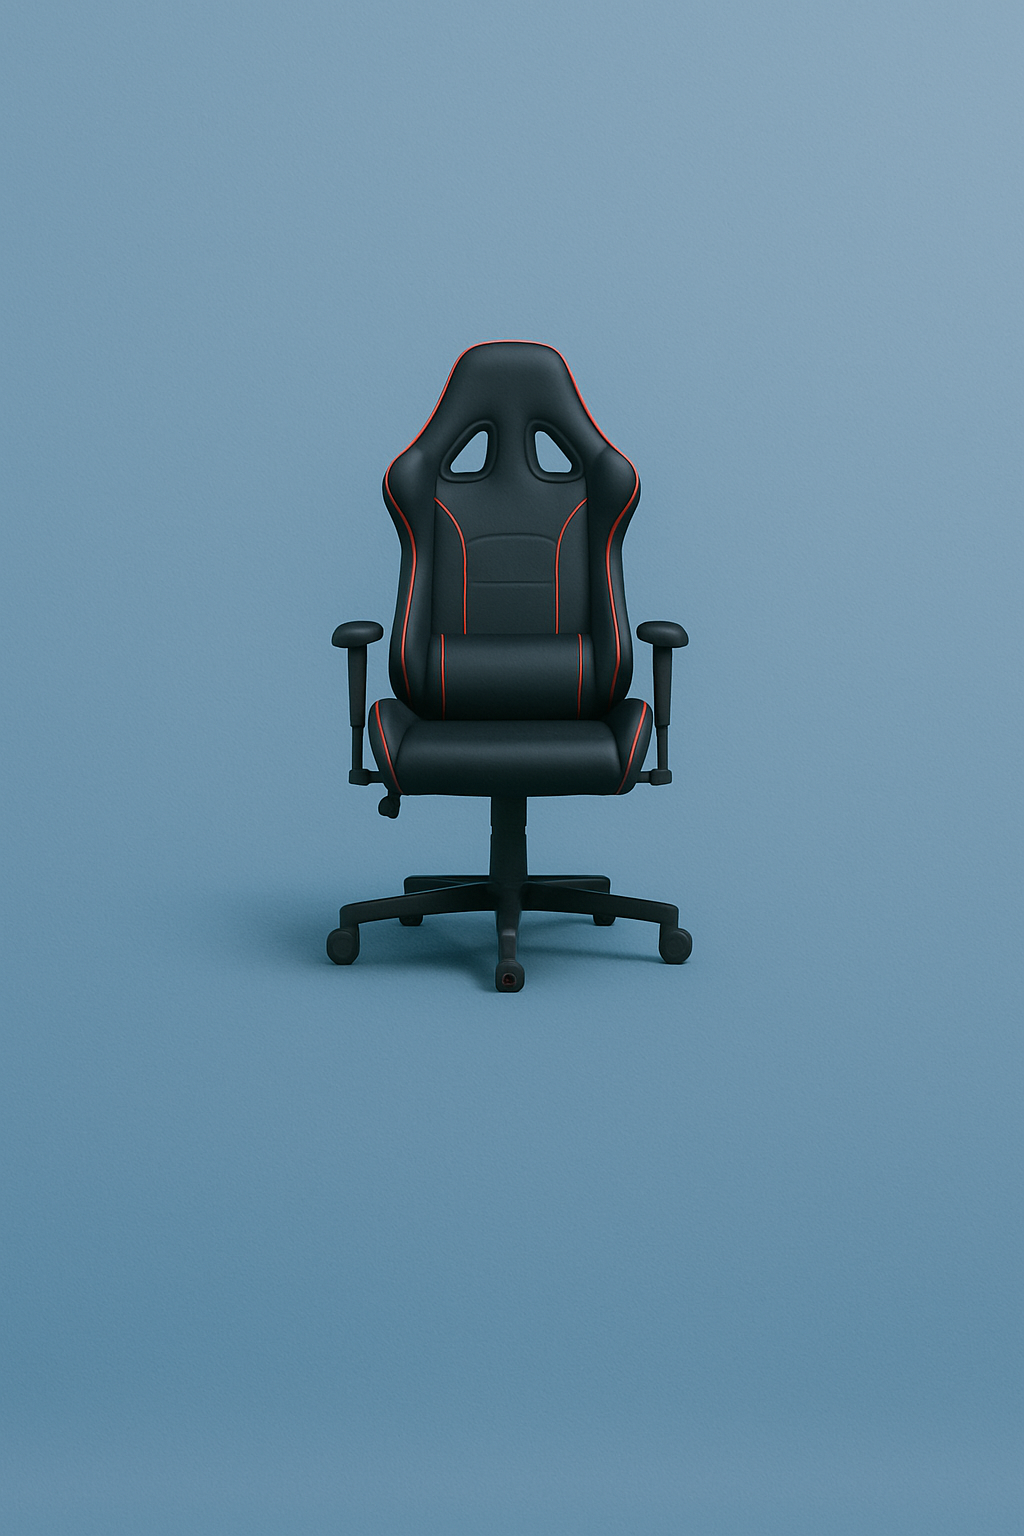
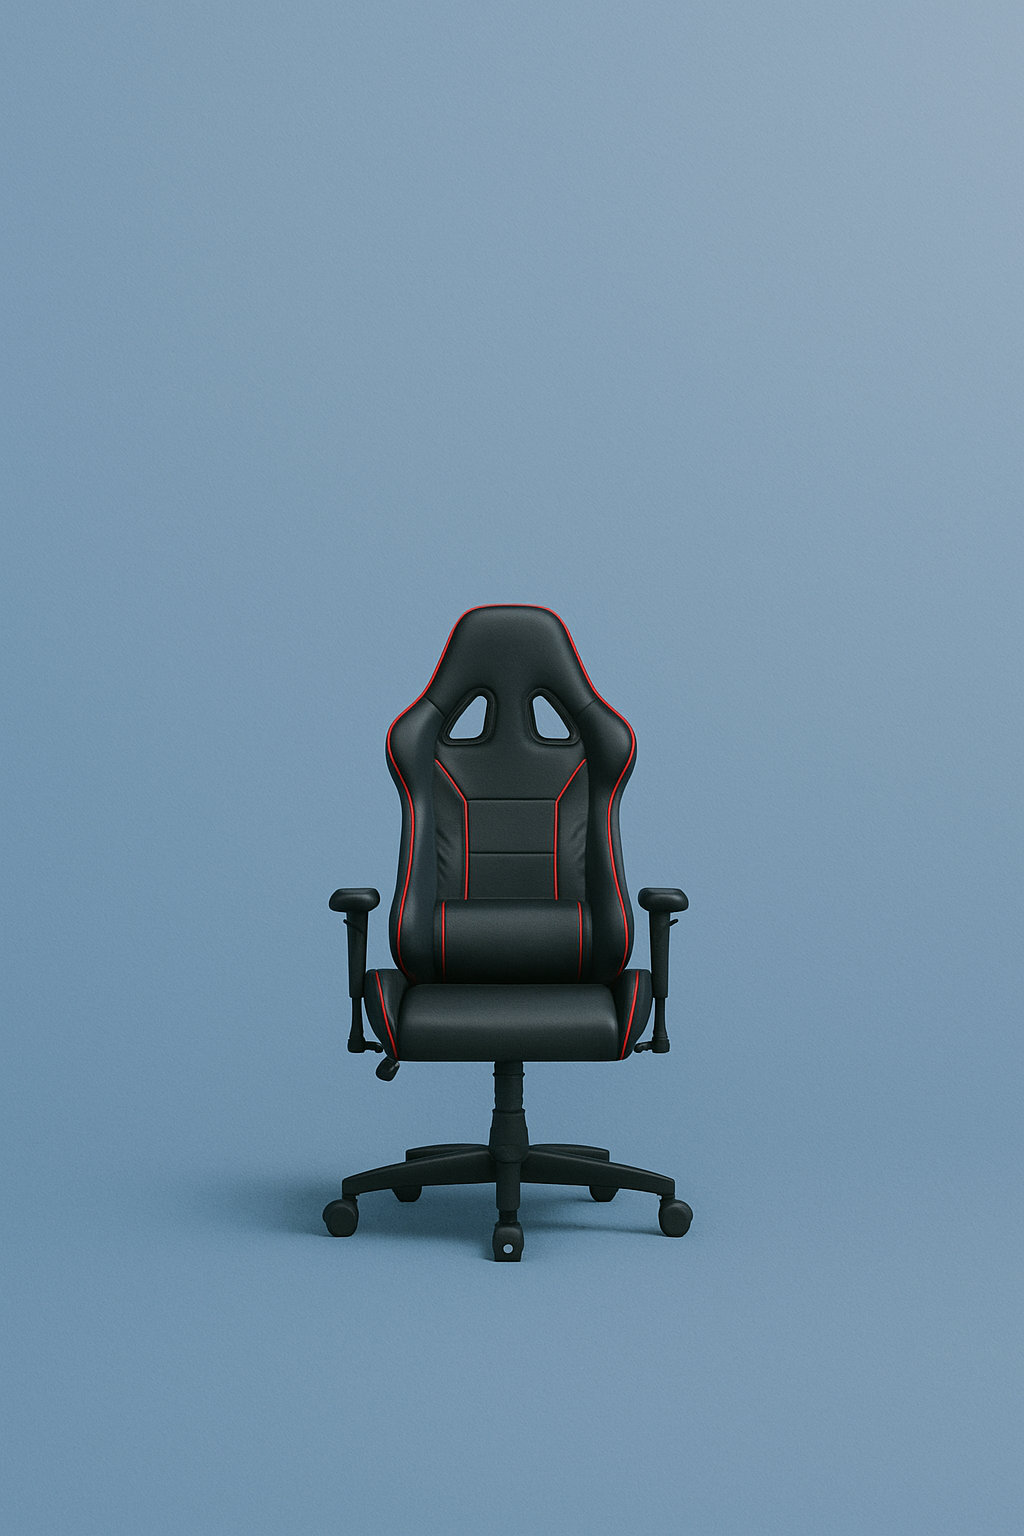
actualizando imagen

Changed region(s): [[0.2188, 0.2188, 0.6875, 0.8438], [0.6562, 0.8125, 1.0, 0.9375]]

diff --git a/venta-componentes.html b/venta-componentes.html
@@ -136,7 +136,7 @@
       </div>
       <div class="service">
         <div class="service-icon">
-          <img src="assets/img/sillasgamer.webp" alt="Sillas Gamer" class="service-img-icon" />
+          <img src="assets/img/sillasgamer.png" alt="Sillas Gamer" class="service-img-icon" />
         </div>
         <div class="service-title">Sillas Gamer</div>
         <div class="service-desc">Sillas ergonómicas y cómodas para largas jornadas.</div>
